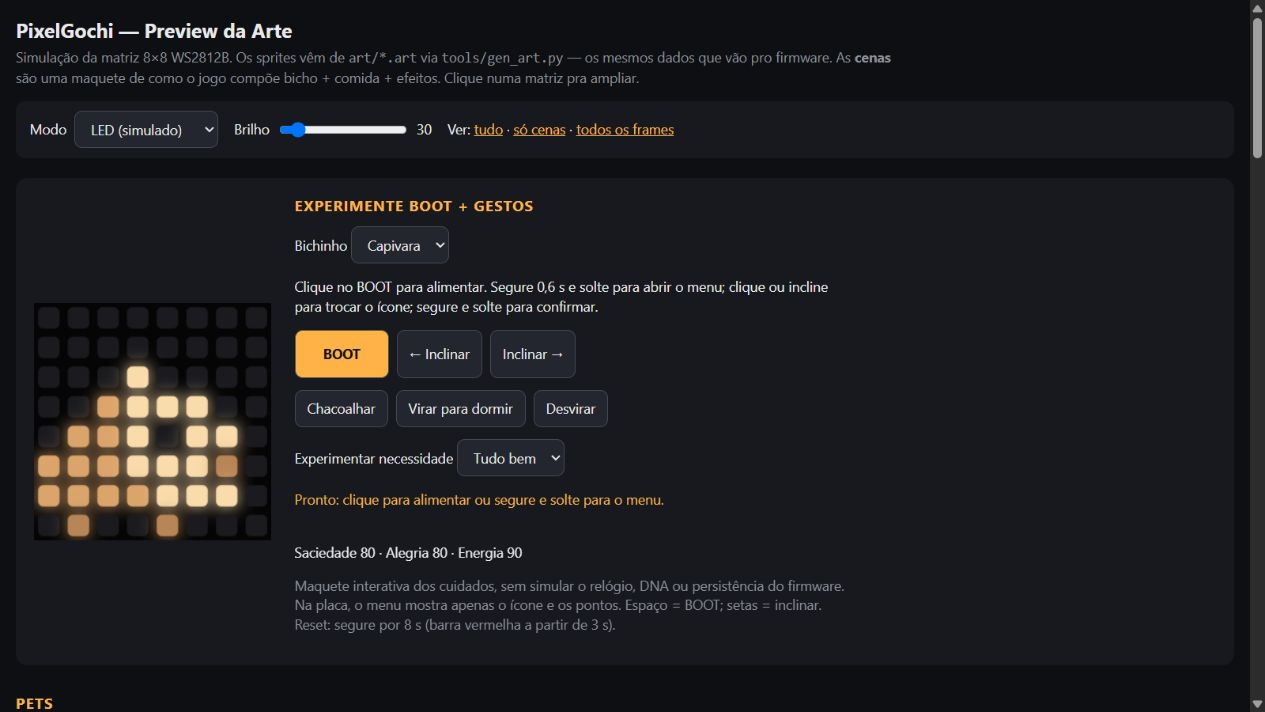
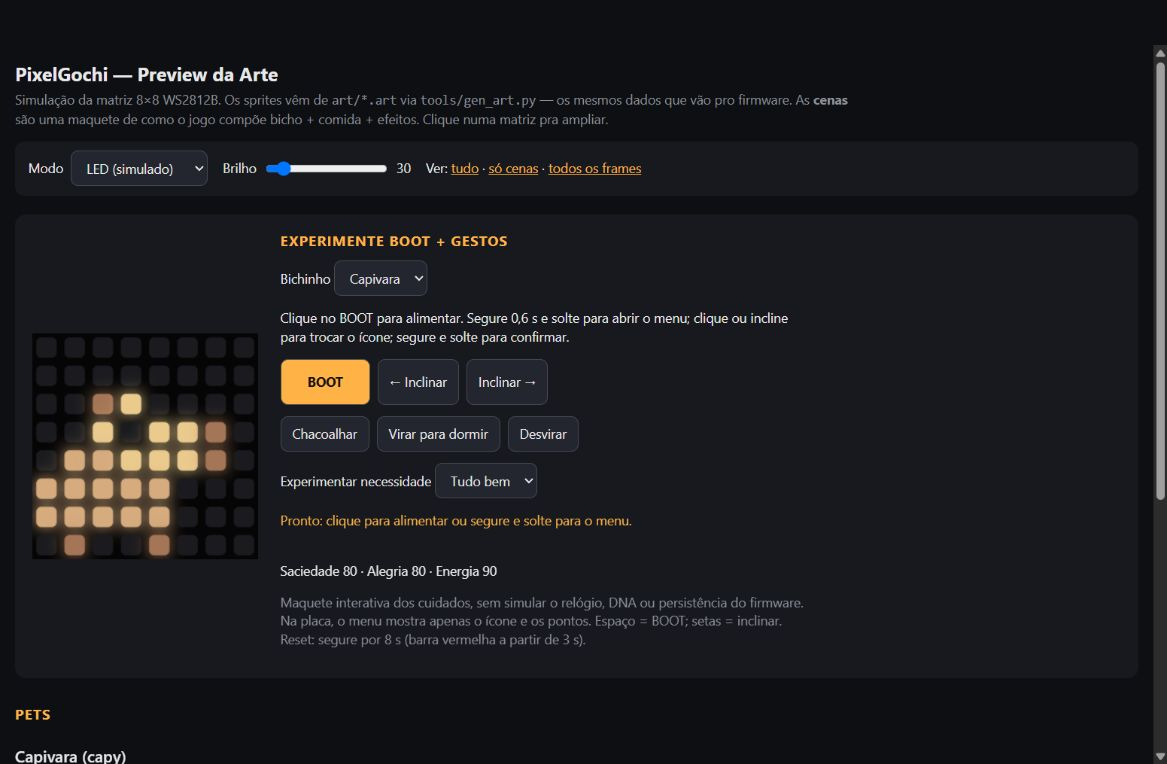
Refine capybara blunt muzzle and refresh capybara screenshots

diff --git a/preview/art.js b/preview/art.js
@@ -5,9 +5,9 @@ window.ART = {
    "W": "#FFFFFF"
   },
   "capy": {
-   "B": "#BD743A",
-   "L": "#F2BC78",
-   "D": "#895024",
+   "B": "#B77B45",
+   "L": "#DDA35C",
+   "D": "#704225",
    "O": "#FF8A00",
    "G": "#54B82E",
    "T": "#4FA8FF"
@@ -678,11 +678,11 @@ window.ART = {
   "capy_idle0": {
    "pal": "capy",
    "rows": [
-    "...L...",
-    "..BLLL.",
-    ".BBL.LL",
-    "BBBLLLD",
-    "BBBBLLL",
+    "..DL...",
+    "..L.LLD",
+    ".BBLLLD",
+    "BBBBB..",
+    "BBBBB..",
     ".D..D.."
    ],
    "w": 7,
@@ -691,11 +691,11 @@ window.ART = {
   "capy_ear": {
    "pal": "capy",
    "rows": [
-    "...B...",
-    "..BLLL.",
-    ".BBL.LL",
-    "BBBLLLD",
-    "BBBBLLL",
+    "..BL...",
+    "..L.LLD",
+    ".BBLLLD",
+    "BBBBB..",
+    "BBBBB..",
     ".D..D.."
    ],
    "w": 7,
@@ -704,11 +704,11 @@ window.ART = {
   "capy_blink": {
    "pal": "capy",
    "rows": [
-    "...L...",
-    "..BLLL.",
-    ".BBLDLL",
-    "BBBLLLD",
-    "BBBBLLL",
+    "..DL...",
+    "..LDLLD",
+    ".BBLLLD",
+    "BBBBB..",
+    "BBBBB..",
     ".D..D.."
    ],
    "w": 7,
@@ -717,11 +717,11 @@ window.ART = {
   "capy_walk1": {
    "pal": "capy",
    "rows": [
-    "...L...",
-    "..BLLL.",
-    ".BBL.LL",
-    "BBBLLLD",
-    "BBBBLLL",
+    "..DL...",
+    "..L.LLD",
+    ".BBLLLD",
+    "BBBBB..",
+    "BBBBB..",
     "D....D."
    ],
    "w": 7,
@@ -730,11 +730,11 @@ window.ART = {
   "capy_eat1": {
    "pal": "capy",
    "rows": [
-    ".......",
-    "...L...",
-    ".BBLLLL",
-    "BBBL.LD",
-    "BBBBLL.",
+    "..DL...",
+    "..LDLLD",
+    ".BBLL.D",
+    "BBBBB..",
+    "BBBBB..",
     ".D..D.."
    ],
    "w": 7,
@@ -743,10 +743,10 @@ window.ART = {
   "capy_sleep0": {
    "pal": "capy",
    "rows": [
-    "...L...",
-    ".BBLDLL",
-    "BBBBLLD",
-    "DDDDLL."
+    "..DL...",
+    ".BLDLLD",
+    "BBBLLLD",
+    "DDDDD.."
    ],
    "w": 7,
    "h": 4
@@ -754,10 +754,10 @@ window.ART = {
   "capy_sleep1": {
    "pal": "capy",
    "rows": [
-    "...B...",
-    ".BBLDLL",
-    "BBBBLLD",
-    "DDDDLL."
+    "..BL...",
+    ".BLDLLD",
+    "BBBLLLD",
+    "DDDDD.."
    ],
    "w": 7,
    "h": 4
@@ -766,11 +766,11 @@ window.ART = {
    "pal": "capy",
    "rows": [
     "....G..",
-    "...LO..",
-    "..BLLL.",
-    ".BBLDLL",
-    "BBBLLLD",
-    "BBBBLLL",
+    "..DLO..",
+    "..LDLLD",
+    ".BBLLLD",
+    "BBBBB..",
+    "BBBBB..",
     ".D..D.."
    ],
    "w": 7,
@@ -779,11 +779,11 @@ window.ART = {
   "capy_sad": {
    "pal": "capy",
    "rows": [
-    "...L...",
-    "..BLLL.",
-    ".BBL.LL",
-    "BBBLTLD",
-    "BBBBLLL",
+    "..DL...",
+    "..L.LLD",
+    ".BBTLLD",
+    "BBBBB..",
+    "BBBBB..",
     ".D..D.."
    ],
    "w": 7,
@@ -792,11 +792,11 @@ window.ART = {
   "capy_hungry0": {
    "pal": "capy",
    "rows": [
-    "...L...",
-    "..BLLL.",
-    ".BBL.LL",
-    "BBBLLL.",
-    "BBBBLT.",
+    "..DL...",
+    "..L.LLD",
+    ".BBLL.D",
+    "BBBBBT.",
+    "BBBBB..",
     ".D..D.."
    ],
    "w": 7,
@@ -805,11 +805,11 @@ window.ART = {
   "capy_walk2": {
    "pal": "capy",
    "rows": [
-    "...L...",
-    "..BLLL.",
-    ".BBL.LL",
-    "BBBLLLD",
-    "BBBBLLL",
+    "..DL...",
+    "..L.LLD",
+    ".BBLLLD",
+    "BBBBB..",
+    "BBBBB..",
     "..D.D.."
    ],
    "w": 7,
@@ -819,11 +819,11 @@ window.ART = {
    "pal": "capy",
    "rows": [
     "....G..",
-    "...LO..",
-    "..BLLL.",
-    ".BBLDLL",
-    "BBBLLLD",
-    "BBBBLLL",
+    "..DLO..",
+    "..LDLLD",
+    ".BBLLLD",
+    "BBBBB..",
+    "BBBBB..",
     "D....D."
    ],
    "w": 7,

diff --git a/src/art/ArtData.cpp b/src/art/ArtData.cpp
@@ -4,7 +4,7 @@
 namespace Art {
 namespace {
 const uint32_t PAL_font[] = {0x000000, 0xFFFFFF};
-const uint32_t PAL_capy[] = {0x000000, 0xBD743A, 0xF2BC78, 0x895024, 0xFF8A00, 0x54B82E, 0x4FA8FF};
+const uint32_t PAL_capy[] = {0x000000, 0xB77B45, 0xDDA35C, 0x704225, 0xFF8A00, 0x54B82E, 0x4FA8FF};
 const uint32_t PAL_cat[] = {0x000000, 0x8DAAE2, 0x496EB8, 0xFF7FA6, 0xFFF1D9, 0x4FA8FF, 0xFF4060};
 const uint32_t PAL_frog[] = {0x000000, 0x3ED64C, 0x1C8A2A, 0xF4FFF0, 0xCFFF6A, 0xFF4F6E, 0x4FA8FF};
 const uint32_t PAL_chick[] = {0x000000, 0xFFD62E, 0xFFF09A, 0xFF7A10, 0xFF6F8F, 0x4FA8FF};
@@ -69,18 +69,18 @@ const uint8_t PX_font_dot__font[] = {0, 0, 0, 0, 1};
 const uint8_t PX_font_excl__font[] = {1, 1, 1, 0, 1};
 const uint8_t PX_font_colon__font[] = {0, 1, 0, 1, 0};
 const uint8_t PX_font_heart__font[] = {0, 0, 0, 1, 0, 1, 1, 1, 1, 0, 1, 0, 0, 0, 0};
-const uint8_t PX_capy_idle0__capy[] = {0, 0, 0, 2, 0, 0, 0, 0, 0, 1, 2, 2, 2, 0, 0, 1, 1, 2, 0, 2, 2, 1, 1, 1, 2, 2, 2, 3, 1, 1, 1, 1, 2, 2, 2, 0, 3, 0, 0, 3, 0, 0};
-const uint8_t PX_capy_ear__capy[] = {0, 0, 0, 1, 0, 0, 0, 0, 0, 1, 2, 2, 2, 0, 0, 1, 1, 2, 0, 2, 2, 1, 1, 1, 2, 2, 2, 3, 1, 1, 1, 1, 2, 2, 2, 0, 3, 0, 0, 3, 0, 0};
-const uint8_t PX_capy_blink__capy[] = {0, 0, 0, 2, 0, 0, 0, 0, 0, 1, 2, 2, 2, 0, 0, 1, 1, 2, 3, 2, 2, 1, 1, 1, 2, 2, 2, 3, 1, 1, 1, 1, 2, 2, 2, 0, 3, 0, 0, 3, 0, 0};
-const uint8_t PX_capy_walk1__capy[] = {0, 0, 0, 2, 0, 0, 0, 0, 0, 1, 2, 2, 2, 0, 0, 1, 1, 2, 0, 2, 2, 1, 1, 1, 2, 2, 2, 3, 1, 1, 1, 1, 2, 2, 2, 3, 0, 0, 0, 0, 3, 0};
-const uint8_t PX_capy_eat1__capy[] = {0, 0, 0, 0, 0, 0, 0, 0, 0, 0, 2, 0, 0, 0, 0, 1, 1, 2, 2, 2, 2, 1, 1, 1, 2, 0, 2, 3, 1, 1, 1, 1, 2, 2, 0, 0, 3, 0, 0, 3, 0, 0};
-const uint8_t PX_capy_sleep0__capy[] = {0, 0, 0, 2, 0, 0, 0, 0, 1, 1, 2, 3, 2, 2, 1, 1, 1, 1, 2, 2, 3, 3, 3, 3, 3, 2, 2, 0};
-const uint8_t PX_capy_sleep1__capy[] = {0, 0, 0, 1, 0, 0, 0, 0, 1, 1, 2, 3, 2, 2, 1, 1, 1, 1, 2, 2, 3, 3, 3, 3, 3, 2, 2, 0};
-const uint8_t PX_capy_happy__capy[] = {0, 0, 0, 0, 5, 0, 0, 0, 0, 0, 2, 4, 0, 0, 0, 0, 1, 2, 2, 2, 0, 0, 1, 1, 2, 3, 2, 2, 1, 1, 1, 2, 2, 2, 3, 1, 1, 1, 1, 2, 2, 2, 0, 3, 0, 0, 3, 0, 0};
-const uint8_t PX_capy_sad__capy[] = {0, 0, 0, 2, 0, 0, 0, 0, 0, 1, 2, 2, 2, 0, 0, 1, 1, 2, 0, 2, 2, 1, 1, 1, 2, 6, 2, 3, 1, 1, 1, 1, 2, 2, 2, 0, 3, 0, 0, 3, 0, 0};
-const uint8_t PX_capy_hungry0__capy[] = {0, 0, 0, 2, 0, 0, 0, 0, 0, 1, 2, 2, 2, 0, 0, 1, 1, 2, 0, 2, 2, 1, 1, 1, 2, 2, 2, 0, 1, 1, 1, 1, 2, 6, 0, 0, 3, 0, 0, 3, 0, 0};
-const uint8_t PX_capy_walk2__capy[] = {0, 0, 0, 2, 0, 0, 0, 0, 0, 1, 2, 2, 2, 0, 0, 1, 1, 2, 0, 2, 2, 1, 1, 1, 2, 2, 2, 3, 1, 1, 1, 1, 2, 2, 2, 0, 0, 3, 0, 3, 0, 0};
-const uint8_t PX_capy_happy1__capy[] = {0, 0, 0, 0, 5, 0, 0, 0, 0, 0, 2, 4, 0, 0, 0, 0, 1, 2, 2, 2, 0, 0, 1, 1, 2, 3, 2, 2, 1, 1, 1, 2, 2, 2, 3, 1, 1, 1, 1, 2, 2, 2, 3, 0, 0, 0, 0, 3, 0};
+const uint8_t PX_capy_idle0__capy[] = {0, 0, 3, 2, 0, 0, 0, 0, 0, 2, 0, 2, 2, 3, 0, 1, 1, 2, 2, 2, 3, 1, 1, 1, 1, 1, 0, 0, 1, 1, 1, 1, 1, 0, 0, 0, 3, 0, 0, 3, 0, 0};
+const uint8_t PX_capy_ear__capy[] = {0, 0, 1, 2, 0, 0, 0, 0, 0, 2, 0, 2, 2, 3, 0, 1, 1, 2, 2, 2, 3, 1, 1, 1, 1, 1, 0, 0, 1, 1, 1, 1, 1, 0, 0, 0, 3, 0, 0, 3, 0, 0};
+const uint8_t PX_capy_blink__capy[] = {0, 0, 3, 2, 0, 0, 0, 0, 0, 2, 3, 2, 2, 3, 0, 1, 1, 2, 2, 2, 3, 1, 1, 1, 1, 1, 0, 0, 1, 1, 1, 1, 1, 0, 0, 0, 3, 0, 0, 3, 0, 0};
+const uint8_t PX_capy_walk1__capy[] = {0, 0, 3, 2, 0, 0, 0, 0, 0, 2, 0, 2, 2, 3, 0, 1, 1, 2, 2, 2, 3, 1, 1, 1, 1, 1, 0, 0, 1, 1, 1, 1, 1, 0, 0, 3, 0, 0, 0, 0, 3, 0};
+const uint8_t PX_capy_eat1__capy[] = {0, 0, 3, 2, 0, 0, 0, 0, 0, 2, 3, 2, 2, 3, 0, 1, 1, 2, 2, 0, 3, 1, 1, 1, 1, 1, 0, 0, 1, 1, 1, 1, 1, 0, 0, 0, 3, 0, 0, 3, 0, 0};
+const uint8_t PX_capy_sleep0__capy[] = {0, 0, 3, 2, 0, 0, 0, 0, 1, 2, 3, 2, 2, 3, 1, 1, 1, 2, 2, 2, 3, 3, 3, 3, 3, 3, 0, 0};
+const uint8_t PX_capy_sleep1__capy[] = {0, 0, 1, 2, 0, 0, 0, 0, 1, 2, 3, 2, 2, 3, 1, 1, 1, 2, 2, 2, 3, 3, 3, 3, 3, 3, 0, 0};
+const uint8_t PX_capy_happy__capy[] = {0, 0, 0, 0, 5, 0, 0, 0, 0, 3, 2, 4, 0, 0, 0, 0, 2, 3, 2, 2, 3, 0, 1, 1, 2, 2, 2, 3, 1, 1, 1, 1, 1, 0, 0, 1, 1, 1, 1, 1, 0, 0, 0, 3, 0, 0, 3, 0, 0};
+const uint8_t PX_capy_sad__capy[] = {0, 0, 3, 2, 0, 0, 0, 0, 0, 2, 0, 2, 2, 3, 0, 1, 1, 6, 2, 2, 3, 1, 1, 1, 1, 1, 0, 0, 1, 1, 1, 1, 1, 0, 0, 0, 3, 0, 0, 3, 0, 0};
+const uint8_t PX_capy_hungry0__capy[] = {0, 0, 3, 2, 0, 0, 0, 0, 0, 2, 0, 2, 2, 3, 0, 1, 1, 2, 2, 0, 3, 1, 1, 1, 1, 1, 6, 0, 1, 1, 1, 1, 1, 0, 0, 0, 3, 0, 0, 3, 0, 0};
+const uint8_t PX_capy_walk2__capy[] = {0, 0, 3, 2, 0, 0, 0, 0, 0, 2, 0, 2, 2, 3, 0, 1, 1, 2, 2, 2, 3, 1, 1, 1, 1, 1, 0, 0, 1, 1, 1, 1, 1, 0, 0, 0, 0, 3, 0, 3, 0, 0};
+const uint8_t PX_capy_happy1__capy[] = {0, 0, 0, 0, 5, 0, 0, 0, 0, 3, 2, 4, 0, 0, 0, 0, 2, 3, 2, 2, 3, 0, 1, 1, 2, 2, 2, 3, 1, 1, 1, 1, 1, 0, 0, 1, 1, 1, 1, 1, 0, 0, 3, 0, 0, 0, 0, 3, 0};
 const uint8_t PX_cat_idle0__cat[] = {1, 0, 0, 0, 1, 0, 0, 1, 3, 1, 3, 1, 0, 0, 1, 0, 1, 0, 1, 0, 0, 1, 4, 3, 4, 1, 0, 0, 0, 1, 4, 1, 0, 0, 1, 0, 1, 4, 1, 0, 1, 1, 0, 2, 0, 2, 1, 1, 0};
 const uint8_t PX_cat_ear__cat[] = {1, 0, 0, 0, 1, 0, 0, 1, 3, 1, 3, 1, 0, 0, 1, 0, 1, 0, 1, 0, 0, 1, 4, 3, 4, 1, 0, 0, 0, 1, 4, 1, 0, 1, 0, 0, 1, 4, 1, 0, 1, 1, 0, 2, 0, 2, 1, 1, 0};
 const uint8_t PX_cat_blink__cat[] = {1, 0, 0, 0, 1, 0, 0, 1, 3, 1, 3, 1, 0, 0, 1, 2, 1, 2, 1, 0, 0, 1, 4, 3, 4, 1, 0, 0, 0, 1, 4, 1, 0, 0, 1, 0, 1, 4, 1, 0, 1, 1, 0, 2, 0, 2, 1, 1, 0};

diff --git a/README.md b/README.md
@@ -19,6 +19,13 @@ São uma demonstração do visual e dos controles; não são fotos dos LEDs fís
 | ![Capivara de perfil no preview, com controles de BOOT e movimento](docs/images/system-capybara.jpg) | ![Gato sentado no preview, com orelhas rosa, peito claro e cauda](docs/images/system-cat.jpg) |
 
 <details>
+<summary>Ver as poses atualizadas da capivara</summary>
+
+![Frames da capivara com focinho largo e ponta reta: descanso, piscar, caminhada, mastigação, sono e expressões](docs/images/system-capybara-frames.jpg)
+
+</details>
+
+<details>
 <summary>Ver um exemplo da galeria de animações</summary>
 
 ![Estados do axolote na galeria: comer, dormir, feliz, triste e com fome](docs/images/system-gallery.jpg)
